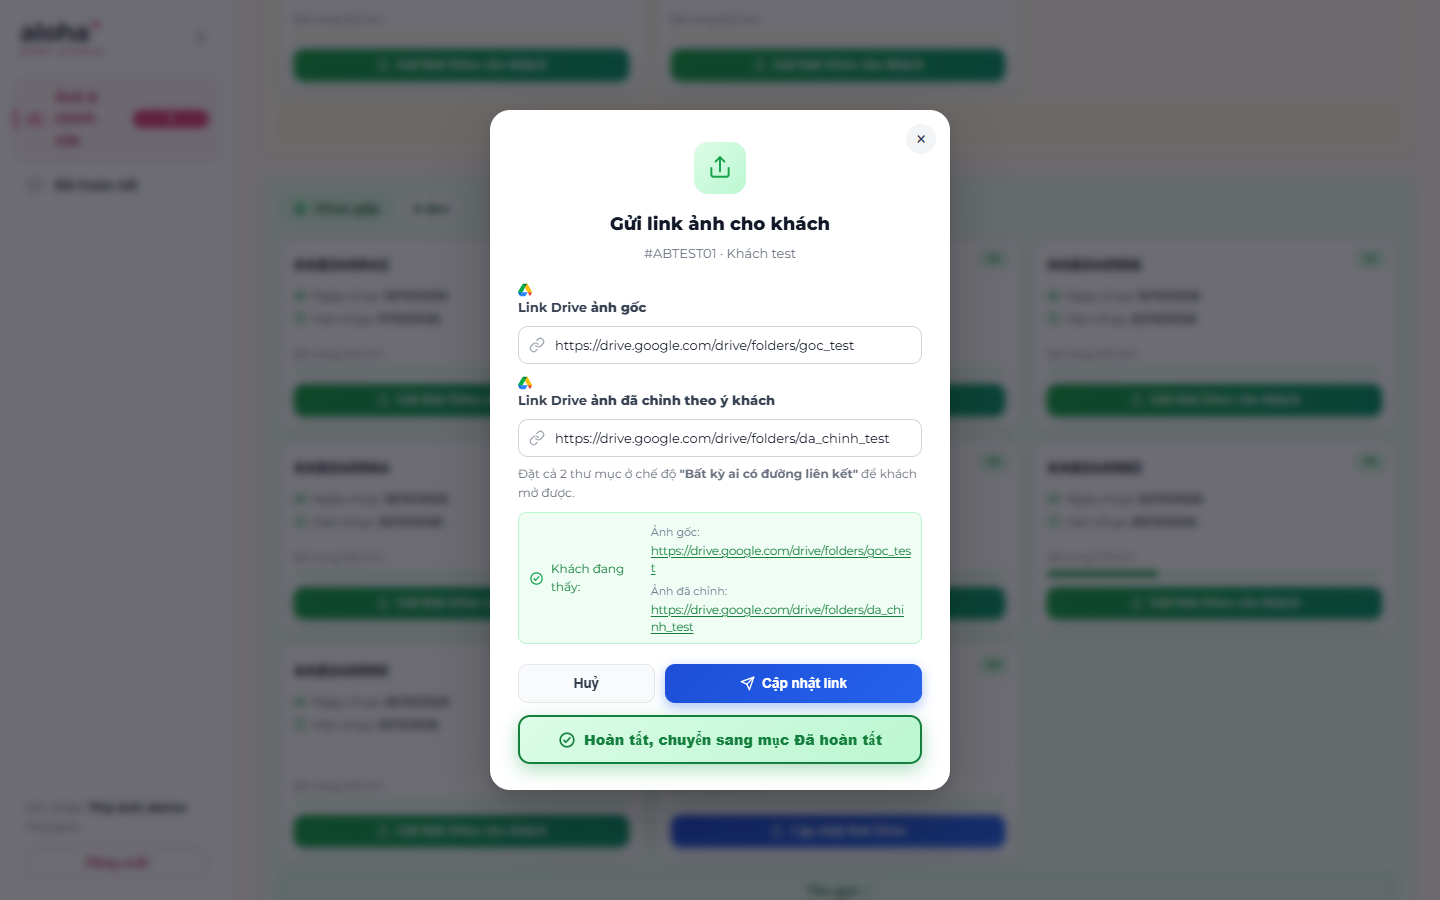
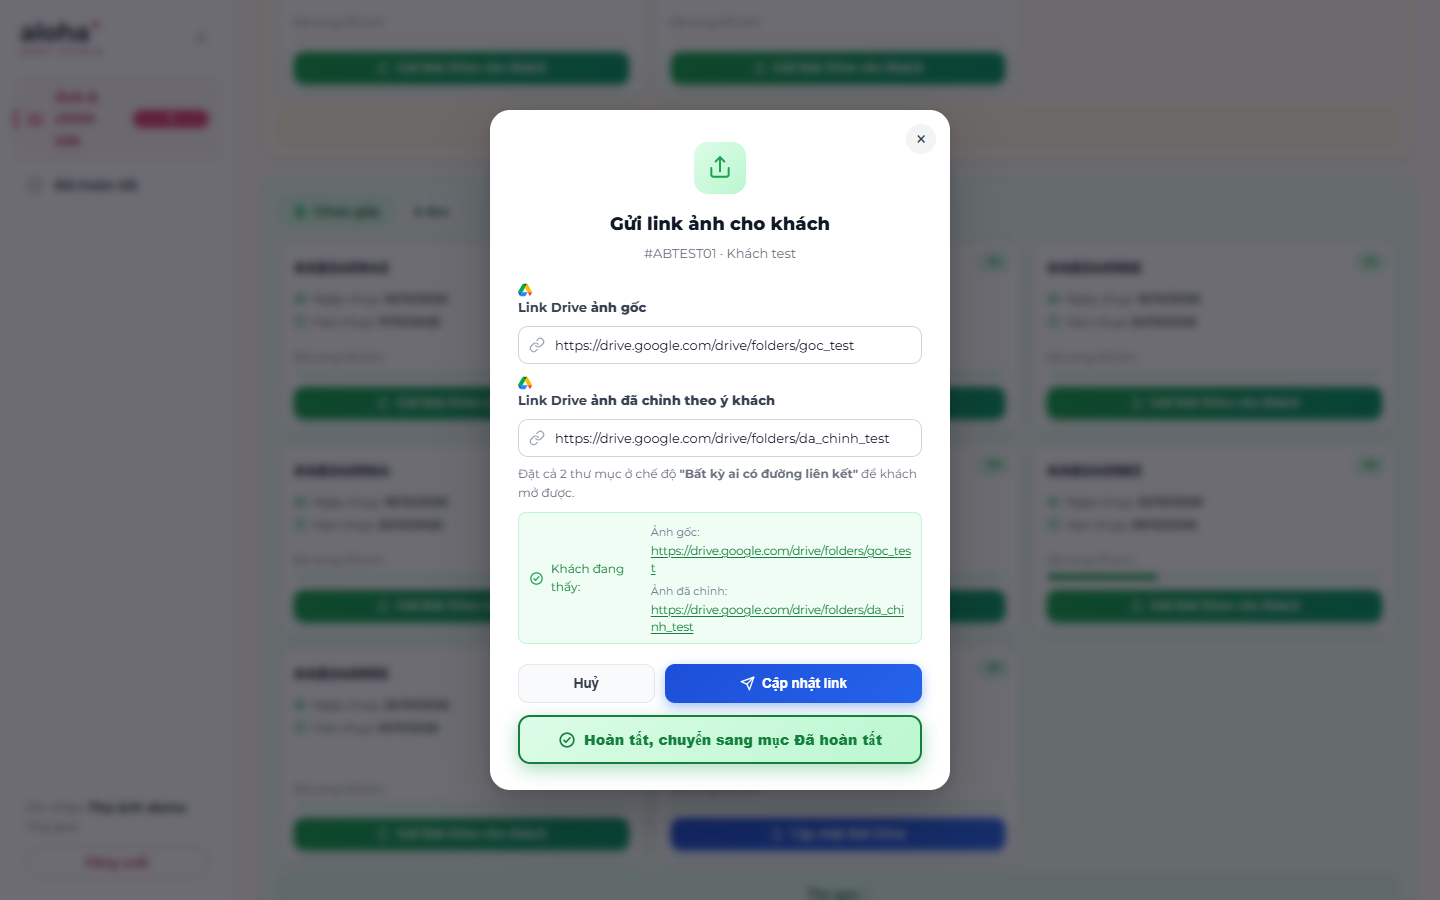
Thợ ảnh: bỏ tình trạng thanh toán ở mục Đã hoàn tất
Bỏ cột "Thanh toán" và số "đã thanh toán" ở thanh tóm tắt; cập nhật ảnh chụp màn hình.

diff --git a/crm/js/admin.js b/crm/js/admin.js
@@ -1591,26 +1591,11 @@ document.addEventListener('DOMContentLoaded', () => {
     return ('0' + d.getDate()).slice(-2) + '/' + ('0' + (d.getMonth() + 1)).slice(-2) + '/' + d.getFullYear();
   };
 
-  function payBadgeHtml(payStatus) {
-    const s = (payStatus || '').toLowerCase();
-    // "đã thanh toán" / "paid"
-    if (s.includes('đã thanh toán') || s.includes('paid') || s.includes('hoàn thành')) {
-      return `<span class="ct-pay-badge paid"><svg viewBox="0 0 24 24" fill="none" stroke="currentColor" stroke-width="2.5" stroke-linecap="round" stroke-linejoin="round"><circle cx="12" cy="12" r="9"/><path d="M8 12.5l2.5 2.5L16 9"/></svg>Đã TT</span>`;
-    }
-    // "trong gói" / in package — không có phí thêm
-    if (s.includes('trong gói') || s.includes('0đ') || s.includes('0 đ')) {
-      return `<span class="ct-pay-badge in-pkg">Trong gói</span>`;
-    }
-    // mặc định: chưa thanh toán
-    return `<span class="ct-pay-badge unpaid"><svg viewBox="0 0 24 24" fill="none" stroke="currentColor" stroke-width="2.5" stroke-linecap="round" stroke-linejoin="round"><circle cx="12" cy="12" r="9"/><path d="M12 8v4m0 4h.01"/></svg>Chưa TT</span>`;
-  }
-
   function renderCompletedTable() {
     const tbody = document.getElementById('completedTableBody');
     const emptyEl = document.getElementById('completedEmpty');
     const summaryEl = document.getElementById('completedSummary');
     const countEl = document.getElementById('completedCount');
-    const paidEl = document.getElementById('completedPaidCount');
     if (!tbody) return;
 
     // Lọc: chỉ lấy yêu cầu đã Hoàn thành, sắp xếp theo thời điểm gửi link (mới nhất lên đầu)
@@ -1619,16 +1604,9 @@ document.addEventListener('DOMContentLoaded', () => {
       .filter(r => r.status === 'Hoàn thành')
       .sort((a, b) => (b.resultLinkAt || b.createdAt) - (a.resultLinkAt || a.createdAt));
 
-    // Số đã thanh toán
-    const paidCount = done.filter(r => {
-      const s = (r.paymentStatus || '').toLowerCase();
-      return s.includes('đã thanh toán') || s.includes('paid') || s.includes('hoàn thành');
-    }).length;
-
     // Summary bar
     if (summaryEl) summaryEl.hidden = done.length === 0;
     if (countEl)   countEl.textContent = done.length;
-    if (paidEl)    paidEl.textContent  = paidCount;
 
     // Empty state
     if (emptyEl) emptyEl.style.display = done.length ? 'none' : '';
@@ -1682,7 +1660,6 @@ document.addEventListener('DOMContentLoaded', () => {
         </td>
         <td>${linkOrigHtml}</td>
         <td>${linkHtml}</td>
-        <td style="text-align:center">${payBadgeHtml(req.paymentStatus)}</td>
       </tr>`;
     }).join('');
 

diff --git a/css/admin.css b/css/admin.css
@@ -1400,12 +1400,10 @@
   border: 1.5px solid #bbf7d0; border-radius: 12px;
   padding: 10px 16px; margin-bottom: 16px; font-size: 13px;
 }
-.completed-summary-num, .completed-summary-paid {
+.completed-summary-num {
   font-size: 22px; font-weight: 800; color: #15803d; line-height: 1;
 }
-.completed-summary-paid { color: #1d4ed8; }
 .completed-summary-label { color: #374151; font-weight: 500; }
-.completed-summary-sep { color: #9ca3af; font-size: 16px; }
 
 /* Wrapper cuộn ngang */
 .completed-table-wrap { overflow-x: auto; border-radius: 14px; }
@@ -1434,7 +1432,6 @@
 .ct-done   { width: 130px; }
 .ct-photos { width: 110px; text-align: center !important; }
 .ct-link   { min-width: 160px; }
-.ct-pay    { width: 130px; text-align: center !important; }
 
 /* Rows */
 .completed-table tbody tr {
@@ -1501,17 +1498,6 @@
 }
 .ct-link-copy:hover { background: #e2e8f0; color: #334155; }
 .ct-link-none { font-size: 12px; color: #94a3b8; font-style: italic; }
-
-/* Badge thanh toán */
-.ct-pay-badge {
-  display: inline-flex; align-items: center; gap: 5px;
-  padding: 4px 10px; border-radius: var(--radius-pill); font-size: 11.5px; font-weight: 700;
-  white-space: nowrap;
-}
-.ct-pay-badge.paid    { background: #dcfce7; color: #15803d; border: 1.5px solid #bbf7d0; }
-.ct-pay-badge.unpaid  { background: #fef9c3; color: #a16207; border: 1.5px solid #fde68a; }
-.ct-pay-badge.in-pkg  { background: #eff6ff; color: #1d4ed8; border: 1.5px solid #bfdbfe; }
-.ct-pay-badge svg { width: 12px; height: 12px; }
 
 /* Badge thợ phụ trách trong bảng Đã hoàn tất */
 .ct-worker-badge {

diff --git a/crm/admin.html b/crm/admin.html
@@ -637,15 +637,13 @@
       <section class="admin-section" id="hoan-tat" data-roles="sep tho-anh">
         <h2>Đã hoàn tất</h2>
         <p class="sub" id="completedSub">Danh sách đơn đã gửi link ảnh cho khách và chuyển sang Hoàn thành. Bấm
-          <strong>Xem ảnh</strong> để xem lại ảnh gốc + ghi chú của khách.</p>
+          <strong>Xem ảnh</strong> để xem lại ảnh gốc + ghi chú của khách.
+        </p>
 
         <!-- Thanh tóm tắt số lượng -->
         <div class="completed-summary" id="completedSummary" hidden>
           <span class="completed-summary-num" id="completedCount">0</span>
           <span class="completed-summary-label">đơn hoàn tất</span>
-          <span class="completed-summary-sep">·</span>
-          <span class="completed-summary-paid" id="completedPaidCount">0</span>
-          <span class="completed-summary-label">đã thanh toán</span>
         </div>
 
         <div class="data-table-wrap completed-table-wrap">
@@ -660,7 +658,6 @@
                 <th class="ct-photos">Ảnh đã chỉnh</th>
                 <th class="ct-link">Link ảnh gốc</th>
                 <th class="ct-link">Link ảnh đã chỉnh</th>
-                <th class="ct-pay">Thanh toán</th>
               </tr>
             </thead>
             <tbody id="completedTableBody">
